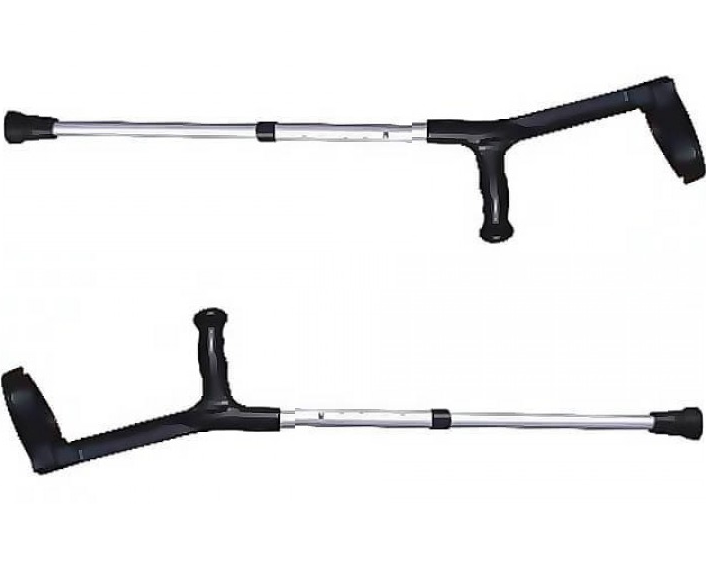
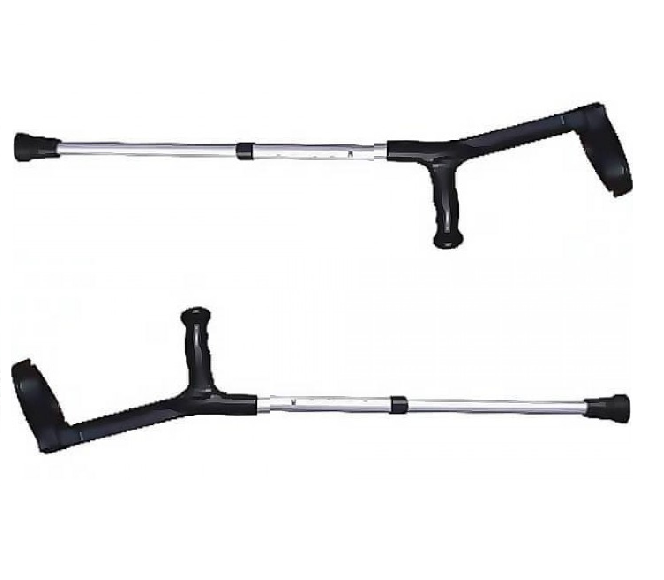
ProdImg_Resize e Horarios Corrigidos

Changed region(s): [[0.0, 0.1241, 1.0, 0.4345], [0.0, 0.5276, 1.0, 0.8379]]

diff --git a/index.html b/index.html
@@ -264,17 +264,17 @@
                         <tr>
                             <td><small>     </small></td>
                             <td></td>
-                            <td></td>
+                            <td>     09:00hs às 12:00hs</td>
                         </tr>
                         <tr>
                             <td><small>Seg. a Sex.</small></td>
                             <td></td>
-                            <td>     8~12h-14~18h</td>
+                            <td>     Fechado para Almoço</td>
                         </tr>
                         <tr>
                             <td><small></small></td>
                             <td></td>
-                            <td></td>
+                            <td>     14:00hs às 18:00hs</td>
                         </tr>
                         <tr>
                             <td><small></small></td>
@@ -284,7 +284,7 @@
                         <tr>
                             <td><small>Sáb.</small></td>
                             <td></td>
-                            <td>    8h-12h</td>
+                            <td>     09:00hs às 12:00hs</td>
                         </tr>
                     </table>
                     <br>

diff --git a/CSS/prod.css b/CSS/prod.css
@@ -45,10 +45,11 @@ body{
 
  .cont .products-container .product img{
    height: 20rem;
+   transform: scale(.9);
 }
 
  .cont .products-container .product:hover img{
-   transform: scale(.9);
+   transform: scale(.85);
 }
 
  .cont .products-container .product h3{

diff --git a/Pages/servicos.php b/Pages/servicos.php
@@ -156,7 +156,7 @@
             <p style="font-style: italic; font-weight: bold;">※Estacionamento exclusivo para clientes※</p>
             <br>
             <div class="row">
-                <div class="col-lg-4">
+            <div class="col-lg-4">
                     <h4>Horário de Funcionamento</h4>
                     <br>
                     <p>
@@ -169,17 +169,17 @@
                         <tr>
                             <td><small>     </small></td>
                             <td></td>
-                            <td></td>
+                            <td>     09:00hs às 12:00hs</td>
                         </tr>
                         <tr>
                             <td><small>Seg. a Sex.</small></td>
                             <td></td>
-                            <td>     8~12h-14~18h</td>
+                            <td>     Fechado para Almoço</td>
                         </tr>
                         <tr>
                             <td><small></small></td>
                             <td></td>
-                            <td></td>
+                            <td>     14:00hs às 18:00hs</td>
                         </tr>
                         <tr>
                             <td><small></small></td>
@@ -189,7 +189,7 @@
                         <tr>
                             <td><small>Sáb.</small></td>
                             <td></td>
-                            <td>    8h-12h</td>
+                            <td>     09:00hs às 12:00hs</td>
                         </tr>
                     </table>
                     <br>
